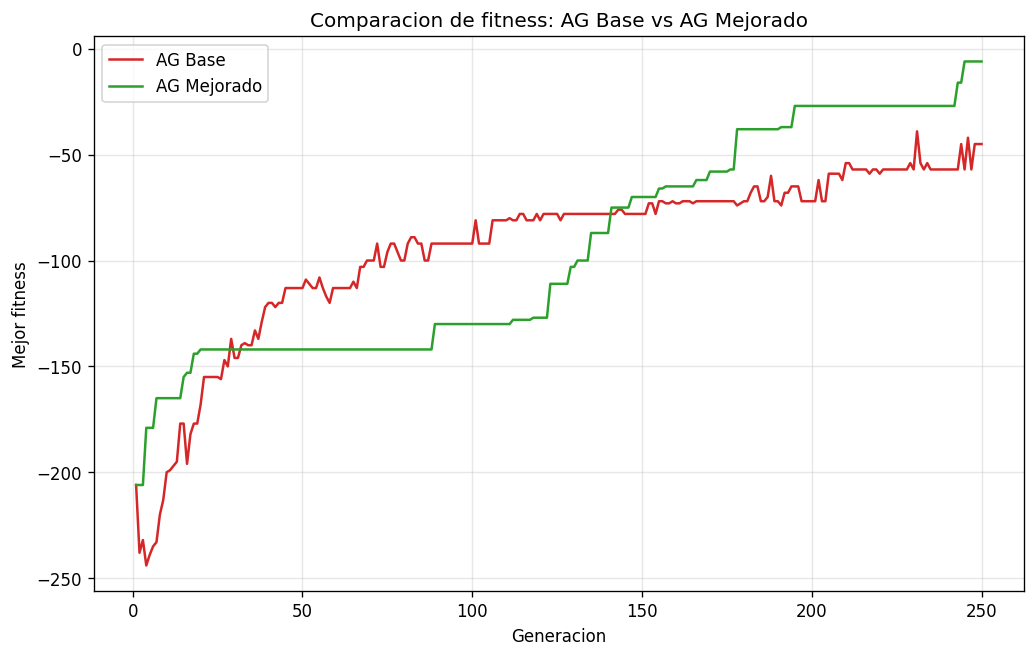
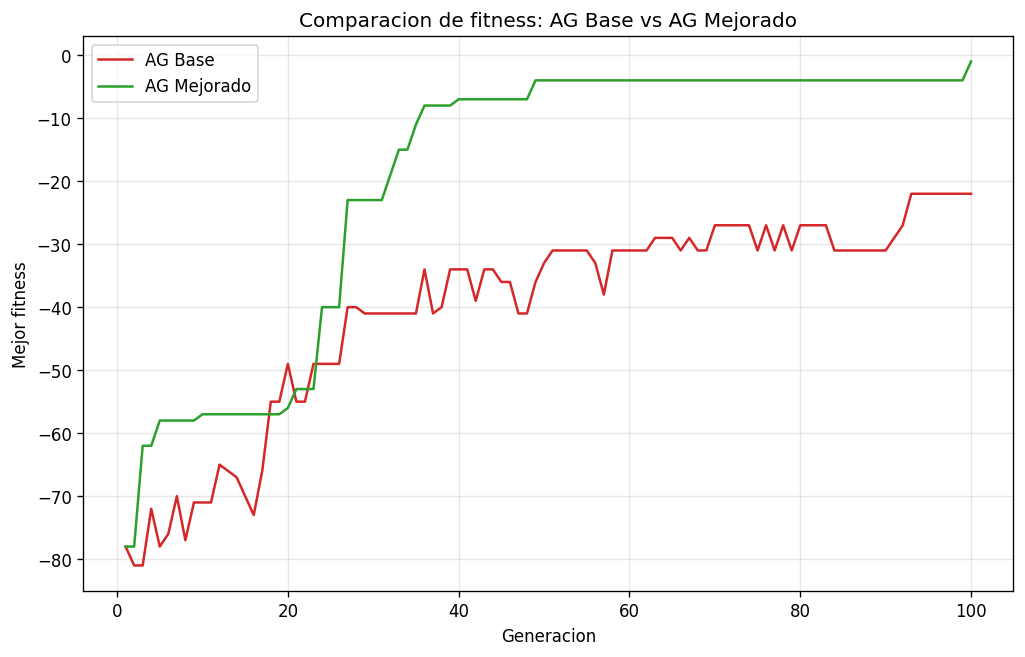
feat: simplifica a 4 secuencias de ADN y abre la grafica en ventana
- generar_secuencias: 4 secuencias cortas (antes 6)
- comparar: 100 generaciones y poblacion 40 (antes 250 / 60)
- la grafica se guarda como PNG y se abre en el visor de imagenes
  (el backend interactivo de matplotlib no funciona por un tkinter
  roto en el sistema)

Resultado: AG base -22, AG mejorado -1 (+95.5%)

diff --git a/algoritmo_genetico.py b/algoritmo_genetico.py
@@ -3,17 +3,18 @@
 Contiene dos versiones del algoritmo (base y mejorada) y una comparacion
 de su fitness. Ejecutar con: python algoritmo_genetico.py
 """
+import os
 import random
 
 import matplotlib
-matplotlib.use("Agg")  # backend sin ventana: guarda la grafica como imagen
+matplotlib.use("Agg")  # genera la grafica como imagen, sin depender de tkinter
 import matplotlib.pyplot as plt
 
 BASES = "ACGT"
 
 
-def generar_secuencias(semilla=42, n=6, longitud_ancestro=16):
-    """Genera n secuencias de ADN derivadas de un ancestro comun.
+def generar_secuencias(semilla=42, n=4, longitud_ancestro=12):
+    """Genera n secuencias de ADN cortas derivadas de un ancestro comun.
 
     Cada secuencia se obtiene aplicando sustituciones e indels al ancestro.
     Con la misma semilla siempre devuelve el mismo resultado.
@@ -23,13 +24,13 @@ def generar_secuencias(semilla=42, n=6, longitud_ancestro=16):
     secuencias = []
     for _ in range(n):
         s = list(ancestro)
-        for _ in range(rng.randint(2, 3)):          # sustituciones
+        for _ in range(rng.randint(1, 2)):          # sustituciones
             i = rng.randrange(len(s))
             s[i] = rng.choice(BASES)
-        for _ in range(rng.randint(0, 2)):          # eliminaciones
+        for _ in range(rng.randint(0, 1)):          # eliminaciones
             if len(s) > 1:
                 del s[rng.randrange(len(s))]
-        for _ in range(rng.randint(0, 2)):          # inserciones
+        for _ in range(rng.randint(0, 1)):          # inserciones
             s.insert(rng.randrange(len(s) + 1), rng.choice(BASES))
         secuencias.append("".join(s))
     return secuencias
@@ -385,8 +386,9 @@ def mostrar_resultado(nombre, individuo, originales):
     print()
 
 
-def graficar(hist_base, hist_mejorado, archivo):
-    """Genera la grafica de comparacion del fitness y la guarda."""
+def graficar(hist_base, hist_mejorado, archivo, mostrar=False):
+    """Genera la grafica de comparacion del fitness, la guarda como
+    imagen y, si mostrar es True, la abre en una ventana."""
     plt.figure(figsize=(10, 6))
     plt.plot(range(1, len(hist_base) + 1), hist_base,
              label="AG Base", color="#d62728")
@@ -400,10 +402,16 @@ def graficar(hist_base, hist_mejorado, archivo):
     plt.savefig(archivo, dpi=120, bbox_inches="tight")
     plt.close()
     print(f"Grafica guardada en: {archivo}")
+    if mostrar:
+        try:
+            os.startfile(os.path.abspath(archivo))
+        except Exception:
+            print("(No se pudo abrir la ventana; abre el archivo manualmente.)")
 
 
-def comparar(semilla_datos=42, semilla_ag=1, tam_poblacion=60,
-             generaciones=250, archivo="comparacion_fitness.png"):
+def comparar(semilla_datos=42, semilla_ag=1, tam_poblacion=40,
+             generaciones=100, archivo="comparacion_fitness.png",
+             mostrar=True):
     """Ejecuta el AG base y el mejorado con los mismos datos y parametros,
     imprime los resultados y genera la grafica de comparacion.
 
@@ -436,7 +444,7 @@ def comparar(semilla_datos=42, semilla_ag=1, tam_poblacion=60,
     print(f"  Mejora: {texto_mejora}")
     print()
 
-    graficar(hist_base, hist_mej, archivo)
+    graficar(hist_base, hist_mej, archivo, mostrar=mostrar)
     return hist_base, hist_mej
 
 

diff --git a/README.md b/README.md
@@ -14,9 +14,9 @@ pequeños). Generación tras generación, el fitness tiende a mejorar.
 
 ## El problema: alineamiento de secuencias
 
-Cada *individuo* es un alineamiento de 6 secuencias de ADN con gaps (`-`)
-insertados. El **fitness** usa la suma de pares: por cada par de filas y
-cada columna suma +1 si coinciden, -1 si difieren y -2 si una es gap.
+Cada *individuo* es un alineamiento de 4 secuencias de ADN cortas con gaps
+(`-`) insertados. El **fitness** usa la suma de pares: por cada par de filas
+y cada columna suma +1 si coinciden, -1 si difieren y -2 si una es gap.
 
 ## Validación de integridad
 
@@ -27,7 +27,7 @@ recupera exactamente la secuencia original.
 
 ## Las 6 mejoras del algoritmo mejorado
 
-1. **Cruza multipunto:** de 1 punto de corte a 3-5 puntos.
+1. **Cruza multipunto:** de 1 punto de corte a 3 puntos (más de dos).
 2. **Selección por torneo:** mejor presión selectiva que la ruleta.
 3. **Criterio de eliminación:** solo la mejor mitad se reproduce.
 4. **Mutación por bloques de gaps:** insertar, mover o eliminar columnas
@@ -42,8 +42,9 @@ pip install -r requirements.txt
 python algoritmo_genetico.py
 ```
 
-El programa imprime las secuencias, los resultados de ambos algoritmos, la
-comparación de fitness y genera `comparacion_fitness.png`.
+El programa imprime las secuencias, los resultados de ambos algoritmos y la
+comparación de fitness; además genera `comparacion_fitness.png` y la abre en
+el visor de imágenes del sistema.
 
 ## Resultados
 